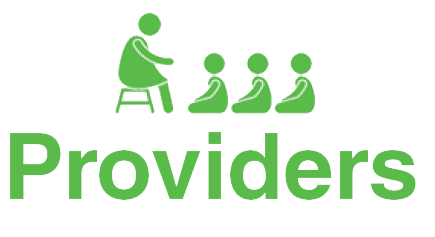
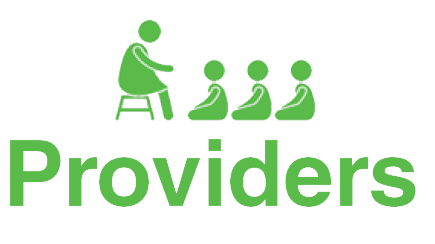
added code for checklist, license, provider, org strip and calendar

diff --git a/childcare/index.html b/childcare/index.html
@@ -52,48 +52,112 @@
         <h3 class="text-muted">Project name</h3>
       </div>-->
       <div class="row marketing">
-        <div class="col-md-4 parents">
-		<img src="images/parents.png" alt="icon of family with parents typed beneath"/>
-          <h4>Subheading</h4>
-          <p>Donec id elit non mi porta gravida at eget metus. Maecenas faucibus mollis interdum.</p>
-
-          <h4>Subheading</h4>
-          <p>Morbi leo risus, porta ac consectetur ac, vestibulum at eros. Cras mattis consectetur purus sit amet fermentum.</p>
-
-          <h4>Subheading</h4>
-          <p>Maecenas sed diam eget risus varius blandit sit amet non magna.</p>
+        <div class="col-sm-4 parents">
+		<img class="img-responsive" src="images/parents2.png" alt="icon of family with parents typed beneath"/>
+          <ul>
+			  <li>Donec id elit non mi porta gravida at eget metus</li>
+			  <li>Maecenas faucibus mollis interdum.</li>
+			  <li>Morbi leo risus, porta ac consectetur ac, vestibulum at eros.</li> 
+			  <li>Cras mattis consectetur purus sit amet fermentum.</li>
+			  <li>Maecenas sed diam eget risus varius blandit sit amet non magna.</li>
+		  </ul>
         </div>
 
-        <div class="col-md-4 providers">
- 		<img src="images/providers.png" alt="icon of teacher and students with providers typed beneath"/>         
-		  <h4>Subheading</h4>
-          <p>Donec id elit non mi porta gravida at eget metus. Maecenas faucibus mollis interdum.</p>
-
-          <h4>Subheading</h4>
-          <p>Morbi leo risus, porta ac consectetur ac, vestibulum at eros. Cras mattis consectetur purus sit amet fermentum.</p>
-
-          <h4>Subheading</h4>
-          <p>Maecenas sed diam eget risus varius blandit sit amet non magna.</p>
+        <div class="col-sm-4 providers">
+ 		<img class="img-responsive" src="images/providers2.png" alt="icon of teacher and students with providers typed beneath"/>         
+          <ul>
+			  <li>Donec id elit non mi porta gravida at eget metus</li>
+			  <li>Maecenas faucibus mollis interdum.</li>
+			  <li>Morbi leo risus, porta ac consectetur ac, vestibulum at eros.</li> 
+			  <li>Cras mattis consectetur purus sit amet fermentum.</li>
+			  <li>Maecenas sed diam eget risus varius blandit sit amet non magna.</li>
+		  </ul>
         </div>
 		
-		<div class="col-md-4 community">
-		<img src="images/community.png" alt="icon of large group with community typed beneath"/>
-          <h4>Subheading</h4>
-          <p>Donec id elit non mi porta gravida at eget metus. Maecenas faucibus mollis interdum.</p>
-
-          <h4>Subheading</h4>
-          <p>Morbi leo risus, porta ac consectetur ac, vestibulum at eros. Cras mattis consectetur purus sit amet fermentum.</p>
-
-          <h4>Subheading</h4>
-          <p>Maecenas sed diam eget risus varius blandit sit amet non magna.</p>
+		<div class="col-sm-4 community">
+		<img class="img-responsive"src="images/community.png" alt="icon of large group with community typed beneath"/>
+          <ul>
+			  <li>Donec id elit non mi porta gravida at eget metus</li>
+			  <li>Maecenas faucibus mollis interdum.</li>
+			  <li>Morbi leo risus, porta ac consectetur ac, vestibulum at eros.</li> 
+			  <li>Cras mattis consectetur purus sit amet fermentum.</li>
+			  <li>Maecenas sed diam eget risus varius blandit sit amet non magna.</li>
+		  </ul>
         </div>
       </div>
-	  
-
+	<div class="row checklist">
+		<h2>5 must-have checklist items</h2>
+		<h4>When choosing the very best care for you child, we recommend you use these checklists to inform your decision</h4>
+	</div>
+	<div class="col-sm-7 c_icons">
+		<div class="col-sm-2 interview pull-left"><img src="images/interview.png" alt="Sample Interview Questions icon"/>Sample Interview Questions</div>
+		<div class="col-sm-2 safety pull-left"><img src="images/safety.png" alt="Safety Checklist icon"/>Safety Checklist</div>
+		<div class="col-sm-2 qualit pull-lefty"><img src="images/quality.png" alt="Quality Care Checklist icon"/>Quality Care Checklist</div>
+		<div class="col-sm-2 emergency pull-left"><img src="images/emergency.png" alt="Emergency Preparedness Checklist icon"/>Emergency Preparedness Checklist</div>
+		<div class="col-sm-2 accessibility pull-left"><img src="images/accessibility.png" alt="Special Needs Checklist icon"/>Special Needs Checklist</div>
+	</div>
+	<div class="col-sm-7 licensed">
+		<div class="col-sm-8 poster_text">
+		<h4>Is your provider licensed?</h4>
+		<p>To find out if your child care provider is licensed search for their facility name here.</p>
+		</div>
+	</div>
+	<div class="row provider">
+		<div class="col-md-7 provider">
+		<div class="col-sm-4">
+		<h4>How do I become a provider?</h4>
+		<p>There are a few steps you need to take in order to become a licensed child care provider. Click here to find out all of the details.</p>
+		</div>
+		<div class="col-md-3">
+			<img src="images/child_blocks.png" alt="Woman and child playing with building blocks"/>
+		</div>
+		</div>
+	</div>
+	</div>
+	<div class="row org">
+		<div class="col-md-7">
+				<div class="col-sm-2"><img src="images/ecnc.jpg" alt="Early Childhood National Centers"/></div>
+				<div class="col-sm-2"><img src="images/aap.jpg" alt="American Academy of Pediatrics"/></div>
+				<div class="col-sm-2"><img src="images/cacfp.jpg" alt="Child & Adult Care Food Program"/></div>
+				<div class="col-sm-2"><img src="images/tax_credit.jpg" alt="Child Care Tax Credit"/></div>	
+		</div>
+		<div class="col-md-7">
+				<div class="col-sm-2"><img src="images/sbsd.jpg" alt="Department of Small Business and Supplier Diversity"/></div>
+				<div class="col-sm-2"><img src="images/211.jpg" alt="Virginia 211"/></div>
+				<div class="col-sm-2"><img src="images/cpsc.jpg" alt="Consumer Product Safety Commision"/></div>
+				<div class="col-sm-2 all_orgs">See all organizations and programs</div>			
+		</div>
+	</div>
+	<div class="container">
+		<div class="row calendar">
+			<div class="col-md-9">
+				<div class="col-md-5">
+					<span class="day">6</span><span class="month"> November</span></br>
+					<p class="title">Child Care and Development Fund Plan</p>
+					<p>The Virginia Department of Social Services is seeking comments on the draft Child Care and Development Fund (CCDF) Plan for FY2016 - FFY 2018. 
+					The draft plan is available online at <a href="http://www.dss.virginia.gov/about/state_plans/cc.cgi">http://www.dss.virginia.gov/about/state_plans/cc.cgi</a>
+					for review and comment from Oct. 1 until Nov. 6.</p>
+				</div>
+				<div class="col-md-5">
+					<img src="images/calendar.jpg" alt="Calendar of events"/>
+				</div>
+				<div class="col-md-5">
+					<img src="images/family_class.png" alt="Student raising his hands and teacher answering"/>
+				</div>
+				<div class="col-md-5">
+					<span class="day">6</span><span class="month"> November</span></br>
+					<p class="title">Child Care and Development Fund Plan</p>
+					<p>The Virginia Department of Social Services is seeking comments on the draft Child Care and Development Fund (CCDF) Plan for FY2016 - FFY 2018. 
+					The draft plan is available online at <a href="http://www.dss.virginia.gov/about/state_plans/cc.cgi">http://www.dss.virginia.gov/about/state_plans/cc.cgi</a>
+					for review and comment from Oct. 1 until Nov. 6.</p>
+				</div>
+			</div>
+		</div>
+	</div>
       <footer class="footer">
         <p>&copy; 2015 Company, Inc.</p>
       </footer>
-	</div>
+
     </div> <!-- /container -->
 
     <script src="assets/js/bootstrap.min.js"></script>

diff --git a/childcare/assets/css/mystyle.css b/childcare/assets/css/mystyle.css
@@ -18,6 +18,10 @@
 	margin-top: 10px;
 	font-size: 45px;
 	}
+.row{
+	margin-left: 0px;
+	margin-right: 0px;
+	}
 .tagline{
 	position: relative;
 	top: -73px;
@@ -39,6 +43,145 @@
 	margin: 2px 0px;
 	font-size: 15px;
 	}
-.marketing img{
-	height: 180px;
+.parents ul li {
+    background: transparent url("../img/blue_bullet.png") no-repeat scroll 7px 7px;
+    list-style-type: none;
+    margin: 0;
+    padding: 8px 9px 5px 37px;
+    position: relative;
+}
+.providers ul li {
+    background: transparent url("../img/green_bullet.png") no-repeat scroll 7px 7px;
+    list-style-type: none;
+    margin: 0;
+    padding: 8px 9px 5px 37px;
+    position: relative;
+}
+.community ul li {
+    background: transparent url("../img/yellow_bullet.png") no-repeat scroll 7px 7px;
+    list-style-type: none;
+    margin: 0;
+    padding: 8px 9px 5px 37px;
+    position: relative;
+}
+.checklist{
+	background: url('../../images/baby_blocks.png') no-repeat center center transparent;
+	text-align: center;
 	}
+.checklist h2 {
+    color: #f7b40e;
+    font-size: 54px;
+    font-weight: bold;
+    margin: 0 auto;
+    width: 412px;
+}
+.checklist h4 {
+    color: #b33a8a;
+    font-size: 22px;
+    margin: 0 auto;
+    width: 294px;
+}
+.c_icons {
+    clear: both;
+    display: block;
+    float: none;
+    margin: -87px auto;
+    z-index: -1;
+}
+.c_icons .col-sm-2 {
+    background-color: #fff;
+    color: #b33a8a;
+    font-size: 12px;
+    height: 145px;
+    margin: 0 5px;
+    padding: 8px 0 0;
+    width: 106px;
+}
+.row.checklist {
+    min-height: 500px;
+}
+.licensed {
+    background: transparent url("../../images/family_poster.png") no-repeat scroll center center;
+    color: #f7b40e;
+    float: none;
+    height: 355px;
+    margin: 240px auto 0;
+}
+.licensed h4{
+	font-size: 20px;
+	}
+.poster_text {
+    float: right;
+    margin-top: 169px;
+}
+.provider {
+    color: #5abb4a;
+    float: none;
+    margin: 0 auto 16px;
+}
+.provider h4{
+	font-size: 20px;
+	}
+	
+.org{
+	background-color: #5abb4a;
+	padding: 14px;
+	}
+.org .col-md-7, .calendar .col-md-9{
+	float: none;
+	margin: 0 auto;
+	}
+.org .col-sm-2{
+	margin: 5px 15px;
+	height: 129px;
+	}
+.all_orgs {
+    background-color: orange;
+    color: #fff;
+    height: 129px !important;
+    padding-top: 30px;
+    width: 127px;
+	margin-left: 31px !important;
+}
+.calendar{
+	font-size: 9px;
+	margin-top: 10px;
+	}	
+.calendar .col-md-5{
+	min-height: 100px;
+	background-color: #FFF;
+	margin: 12px;
+	}
+.calendar img {
+    display: block;
+    margin: 0 auto;
+}
+.day, .month{
+	color: #ad3688;
+	font-size: 12px;
+	}
+.day{
+	font-size: 36px;
+	}
+.title{
+	font-size: 12px;
+	}
+footer {
+    clear: both;
+    display: block;
+    float: none !important;
+	min-height: 300px;
+	background-color: #2f2f2f;
+	color: #FFF;
+}
+@media (max-width: 991px){
+	.licensed{
+		margin-top: 370px
+	}
+}
+@media (max-width: 767px){
+	.org .col-md-7{
+		float: left;
+		width: 50%;
+	}
+}
